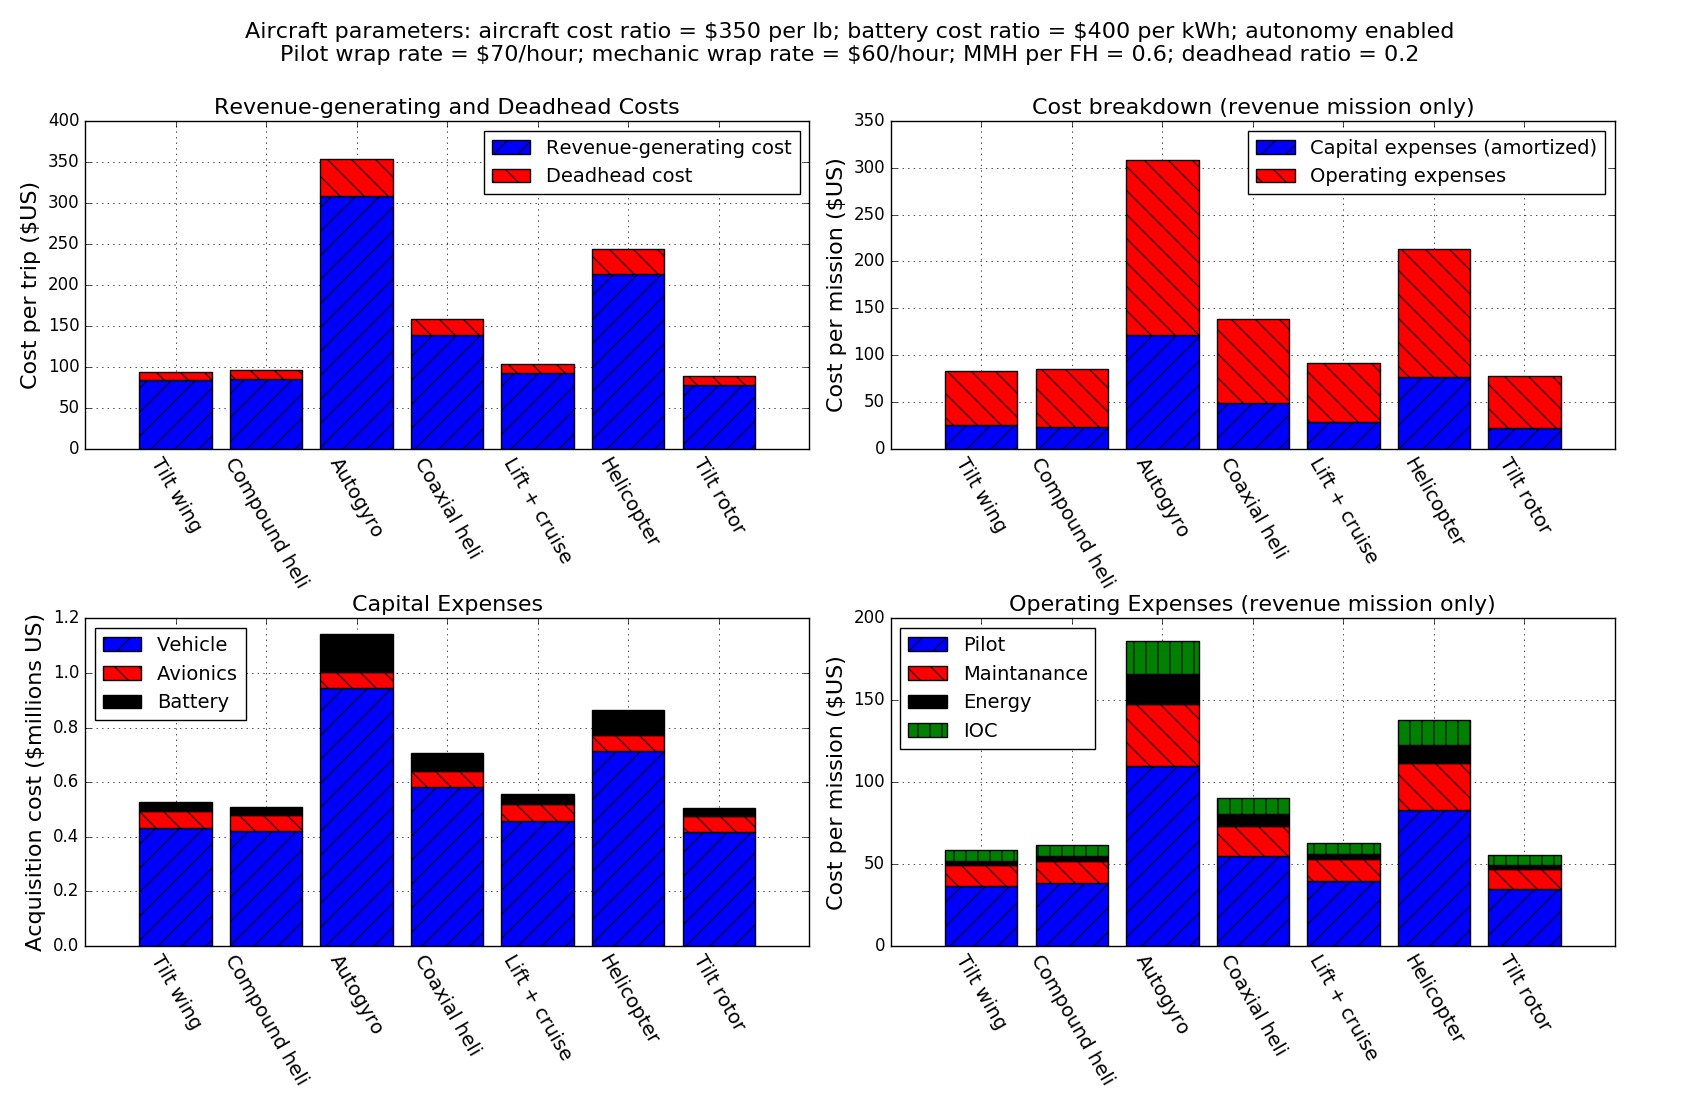
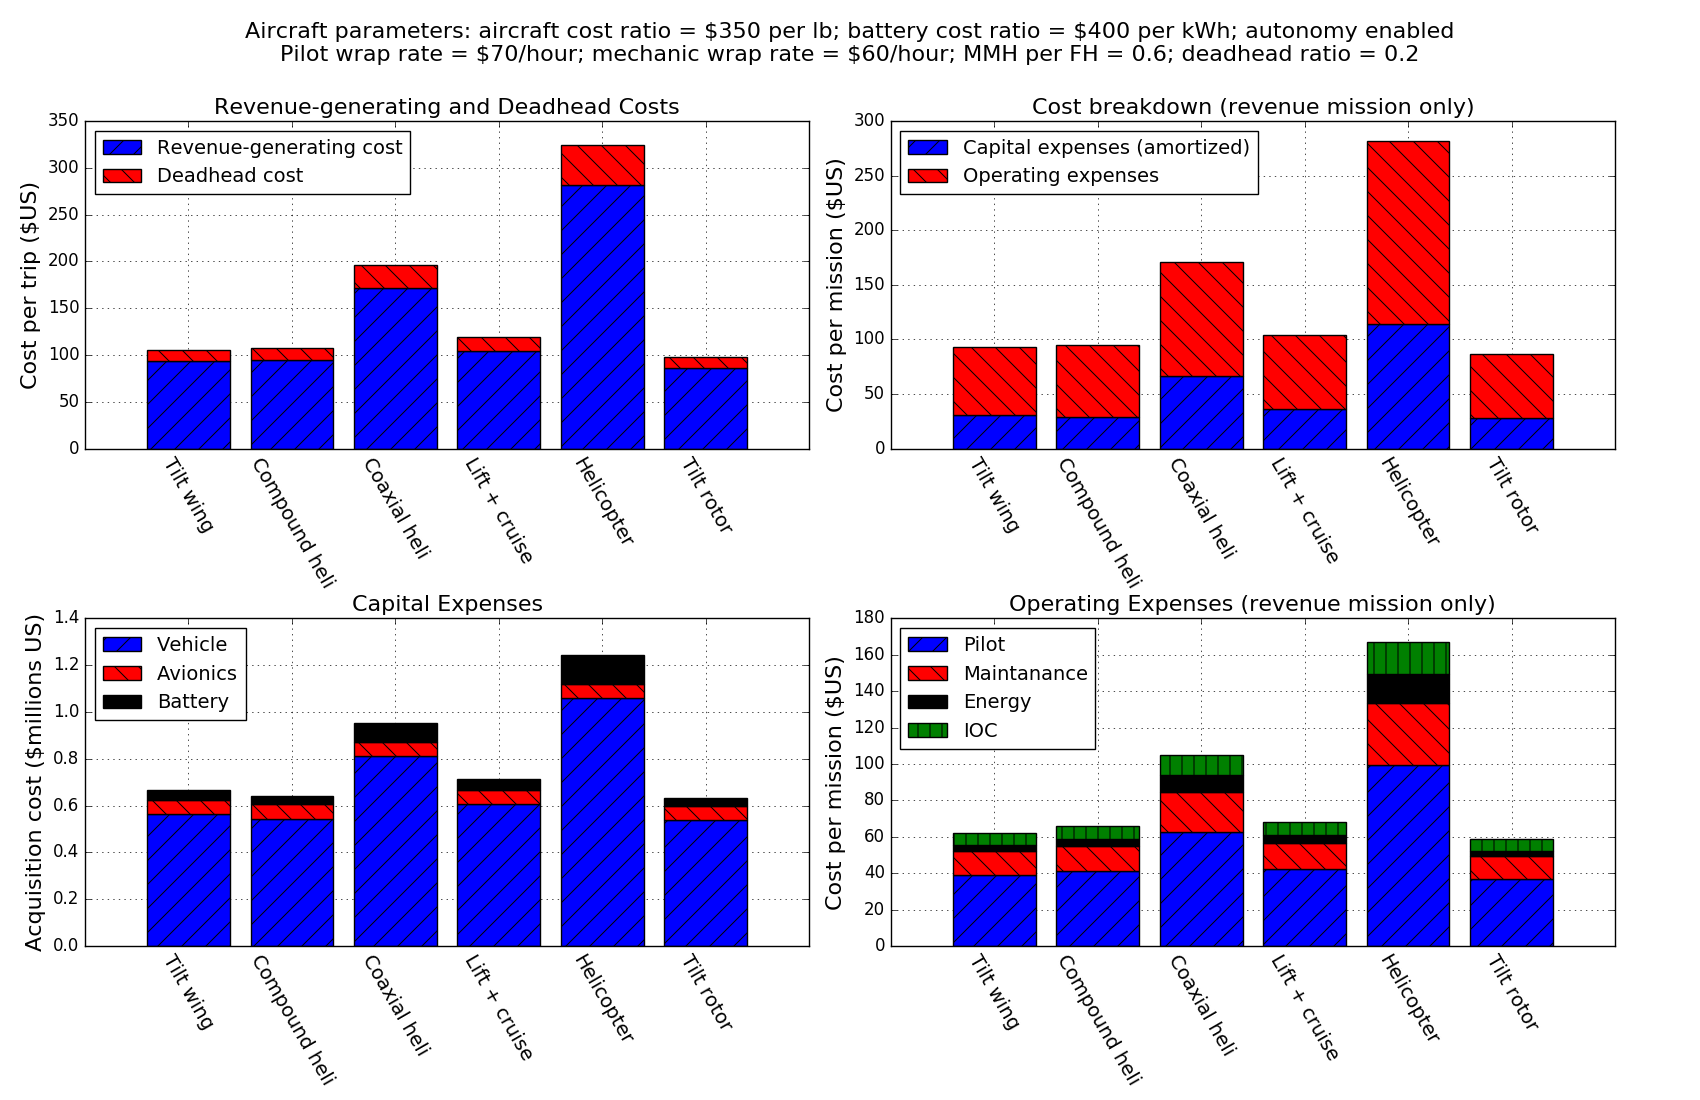
Create new module for generic study parameters; add to config_tradeStudy

diff --git a/study_input_data.py b/study_input_data.py
@@ -1,0 +1,104 @@
+# Contains configuration-specific data
+from gpkit import ureg
+
+generic_data = {} #generic data (i.e. for all configs)
+configuration_data = {} #configuration-specific data
+
+generic_data["\eta_{cruise}"] = 0.85 #propulsive efficiency in cruise
+generic_data["\eta_{electric}"] = 0.9 #electrical system efficiency
+generic_data["weight_fraction"] = 0.55 #structural mass fraction
+generic_data["C_m"] = 400*ureg.Wh/ureg.kg #battery energy density
+generic_data["n"] = 1.0 #battery discharge parameter
+
+generic_data["reserve_type"] = "Uber" #2-nm diversion
+generic_data["autonomousEnabled"] = True #Vehicle autonomy enabled
+generic_data["charger_power"] = 200*ureg.kW
+
+generic_data["vehicle_cost_per_weight"] = 350*ureg.lbf**-1
+generic_data["battery_cost_per_C"] = 400*ureg.kWh**-1
+generic_data["pilot_wrap_rate"] = 70*ureg.hr**-1
+generic_data["mechanic_wrap_rate"] = 60*ureg.hr**-1
+generic_data["MMH_FH"] = 0.6
+generic_data["deadhead_ratio"] = 0.2
+
+generic_data["sizing_mission"] = {}
+generic_data["sizing_mission"]["type"] = "piloted"
+generic_data["sizing_mission"]["N_passengers"] = 3
+generic_data["sizing_mission"]["range"] = 50*ureg.nautical_mile
+generic_data["sizing_mission"]["time_in_hover"] = 120*ureg.s
+
+generic_data["revenue_mission"] = {}
+generic_data["revenue_mission"]["type"] = "piloted"
+generic_data["revenue_mission"]["N_passengers"] = 2
+generic_data["revenue_mission"]["range"] = 30*ureg.nautical_mile
+generic_data["revenue_mission"]["time_in_hover"] = 30*ureg.s
+
+generic_data["deadhead_mission"] = {}
+generic_data["deadhead_mission"]["type"] = "autonomous"
+generic_data["deadhead_mission"]["N_passengers"] = 0.00001
+generic_data["deadhead_mission"]["range"] = 30*ureg.nautical_mile
+generic_data["deadhead_mission"]["time_in_hover"] = 30*ureg.s
+
+
+configuration_data["Multirotor"] = {}
+configuration_data["Multirotor"]["V_{cruise}"] = 50*ureg("mph")
+configuration_data["Multirotor"]["L/D"] = 1.5
+configuration_data["Multirotor"]["T/A"] = 3.75*ureg("lbf")/ureg("ft")**2
+configuration_data["Multirotor"]["Cl_{mean_{max}}"] = 0.6
+configuration_data["Multirotor"]["N"] = 4
+
+configuration_data["Autogyro"] = {}
+configuration_data["Autogyro"]["V_{cruise}"] = 100*ureg("mph")
+configuration_data["Autogyro"]["L/D"] = 3.5
+configuration_data["Autogyro"]["T/A"] = 3.75*ureg("lbf")/ureg("ft")**2
+configuration_data["Autogyro"]["Cl_{mean_{max}}"] = 0.8
+configuration_data["Autogyro"]["N"] = 1
+
+configuration_data["Helicopter"] = {}
+configuration_data["Helicopter"]["V_{cruise}"] = 100*ureg("mph")
+configuration_data["Helicopter"]["L/D"] = 4.25
+configuration_data["Helicopter"]["T/A"] = 4.5*ureg("lbf")/ureg("ft")**2
+configuration_data["Helicopter"]["Cl_{mean_{max}}"] = 0.6
+configuration_data["Helicopter"]["N"] = 1
+
+configuration_data["Tilt duct"] = {}
+configuration_data["Tilt duct"]["V_{cruise}"] = 150*ureg("mph")
+configuration_data["Tilt duct"]["L/D"] = 10.
+configuration_data["Tilt duct"]["T/A"] = 40*ureg("lbf")/ureg("ft")**2
+configuration_data["Tilt duct"]["Cl_{mean_{max}}"] = 1.0
+configuration_data["Tilt duct"]["N"] = 36
+
+configuration_data["Coaxial heli"] = {}
+configuration_data["Coaxial heli"]["V_{cruise}"] = 150*ureg("mph")
+configuration_data["Coaxial heli"]["L/D"] = 5.5
+configuration_data["Coaxial heli"]["T/A"] = 7*ureg("lbf")/ureg("ft")**2
+configuration_data["Coaxial heli"]["Cl_{mean_{max}}"] = 0.6
+configuration_data["Coaxial heli"]["N"] = 2
+
+configuration_data["Lift + cruise"] = {}
+configuration_data["Lift + cruise"]["V_{cruise}"] = 150*ureg("mph")
+configuration_data["Lift + cruise"]["L/D"] = 10
+configuration_data["Lift + cruise"]["T/A"] = 15*ureg("lbf")/ureg("ft")**2
+configuration_data["Lift + cruise"]["Cl_{mean_{max}}"] = 1.0
+configuration_data["Lift + cruise"]["N"] = 6
+
+configuration_data["Tilt wing"] = {}
+configuration_data["Tilt wing"]["V_{cruise}"] = 150*ureg("mph")
+configuration_data["Tilt wing"]["L/D"] = 12
+configuration_data["Tilt wing"]["T/A"] = 15*ureg("lbf")/ureg("ft")**2
+configuration_data["Tilt wing"]["Cl_{mean_{max}}"] = 1.0
+configuration_data["Tilt wing"]["N"] = 8
+
+configuration_data["Compound heli"] = {}
+configuration_data["Compound heli"]["V_{cruise}"] = 150*ureg("mph")
+configuration_data["Compound heli"]["L/D"] = 9
+configuration_data["Compound heli"]["T/A"] = 4.5*ureg("lbf")/ureg("ft")**2
+configuration_data["Compound heli"]["Cl_{mean_{max}}"] = 0.8
+configuration_data["Compound heli"]["N"] = 1
+
+configuration_data["Tilt rotor"] = {}
+configuration_data["Tilt rotor"]["V_{cruise}"] = 150*ureg("mph")
+configuration_data["Tilt rotor"]["L/D"] = 14
+configuration_data["Tilt rotor"]["T/A"] = 15*ureg("lbf")/ureg("ft")**2
+configuration_data["Tilt rotor"]["Cl_{mean_{max}}"] = 1.0
+configuration_data["Tilt rotor"]["N"] = 12

diff --git a/config_tradeStudy/config_tradeStudy.py b/config_tradeStudy/config_tradeStudy.py
@@ -10,48 +10,47 @@ from matplotlib import pyplot as plt
 from aircraft_models import OnDemandAircraft 
 from aircraft_models import OnDemandSizingMission, OnDemandRevenueMission
 from aircraft_models import OnDemandDeadheadMission, OnDemandMissionCost
-from configuration_data import configurations
+from study_input_data import generic_data, configuration_data
 
 #General data
-N = 12 #number of propellers. Required, but has no effect since T/A is constrained
-eta_cruise = 0.85 #propulsive efficiency in cruise
-eta_electric = 0.9 #electrical system efficiency
-weight_fraction = 0.5 #structural mass fraction
-C_m = 400*ureg.Wh/ureg.kg #battery energy density
-n=1.0#battery discharge parameter
-reserve_type = "Uber"
+eta_cruise = generic_data["\eta_{cruise}"] 
+eta_electric = generic_data["\eta_{electric}"]
+weight_fraction = generic_data["weight_fraction"]
+C_m = generic_data["C_m"]
+n = generic_data["n"]
 
-sizing_mission_range = 50*ureg.nautical_mile
-revenue_mission_range = 30*ureg.nautical_mile
-deadhead_mission_range = 30*ureg.nautical_mile
+reserve_type = generic_data["reserve_type"]
+autonomousEnabled = generic_data["autonomousEnabled"]
+charger_power = generic_data["charger_power"]
 
-sizing_time_in_hover = 120*ureg.s
-revenue_time_in_hover = 30*ureg.s
-deadhead_time_in_hover = 30*ureg.s
+vehicle_cost_per_weight = generic_data["vehicle_cost_per_weight"]
+battery_cost_per_C = generic_data["battery_cost_per_C"]
+pilot_wrap_rate = generic_data["pilot_wrap_rate"]
+mechanic_wrap_rate = generic_data["mechanic_wrap_rate"]
+MMH_FH = generic_data["MMH_FH"]
+deadhead_ratio = generic_data["deadhead_ratio"]
 
-autonomousEnabled = True
-sizing_mission_type = "piloted"
-revenue_mission_type = "piloted"
-deadhead_mission_type = "autonomous"
+sizing_mission_type = generic_data["sizing_mission"]["type"]
+sizing_N_passengers = generic_data["sizing_mission"]["N_passengers"]
+sizing_mission_range = generic_data["sizing_mission"]["range"]
+sizing_time_in_hover = generic_data["sizing_mission"]["time_in_hover"]
 
-sizing_N_passengers = 3
-revenue_N_passengers = 2
-deadhead_N_passengers = 0.00001
+revenue_mission_type = generic_data["revenue_mission"]["type"]
+revenue_N_passengers = generic_data["revenue_mission"]["N_passengers"]
+revenue_mission_range = generic_data["revenue_mission"]["range"]
+revenue_time_in_hover = generic_data["revenue_mission"]["time_in_hover"]
 
-charger_power = 200*ureg.kW
-
-vehicle_cost_per_weight = 350*ureg.lbf**-1
-battery_cost_per_C = 400*ureg.kWh**-1
-pilot_wrap_rate = 70*ureg.hr**-1
-mechanic_wrap_rate = 60*ureg.hr**-1
-MMH_FH = 0.6
-deadhead_ratio = 0.2
+deadhead_mission_type = generic_data["deadhead_mission"]["type"]
+deadhead_N_passengers = generic_data["deadhead_mission"]["N_passengers"]
+deadhead_mission_range = generic_data["deadhead_mission"]["range"]
+deadhead_time_in_hover = generic_data["deadhead_mission"]["time_in_hover"]
 
 
-# Delete configurations that won't solve
-configs = configurations.copy()
+# Delete some configurations
+configs = configuration_data.copy()
 del configs["Tilt duct"]
 del configs["Multirotor"]
+del configs["Autogyro"]
 
 #Optimize remaining configurations
 for config in configs:
@@ -65,6 +64,7 @@ for config in configs:
 	L_D = c["L/D"]
 	T_A = c["T/A"]
 	Cl_mean_max = c["Cl_{mean_{max}}"]
+	N = c["N"]
 
 	Aircraft = OnDemandAircraft(N=N,L_D=L_D,eta_cruise=eta_cruise,C_m=C_m,
 		Cl_mean_max=Cl_mean_max,weight_fraction=weight_fraction,n=n,eta_electric=eta_electric,
@@ -204,7 +204,7 @@ plt.ylabel('Cost per trip ($US)', fontsize = 16)
 plt.grid()
 plt.title("Revenue-generating and Deadhead Costs",fontsize = 16)
 plt.legend((p1[0],p2[0]),("Revenue-generating cost","Deadhead cost"),
-	loc='upper right', fontsize = 14)
+	loc='upper left', fontsize = 14)
 
 plt.subplot(2,2,2)
 for i, config in enumerate(configs):
@@ -220,7 +220,7 @@ plt.ylabel('Cost per mission ($US)', fontsize = 16)
 plt.grid()
 plt.title("Cost breakdown (revenue mission only)",fontsize = 16)
 plt.legend((p1[0],p2[0]),("Capital expenses (amortized)","Operating expenses"),
-	loc='upper right', fontsize = 14)
+	loc='upper left', fontsize = 14)
 
 plt.subplot(2,2,3)
 for i, config in enumerate(configs):
